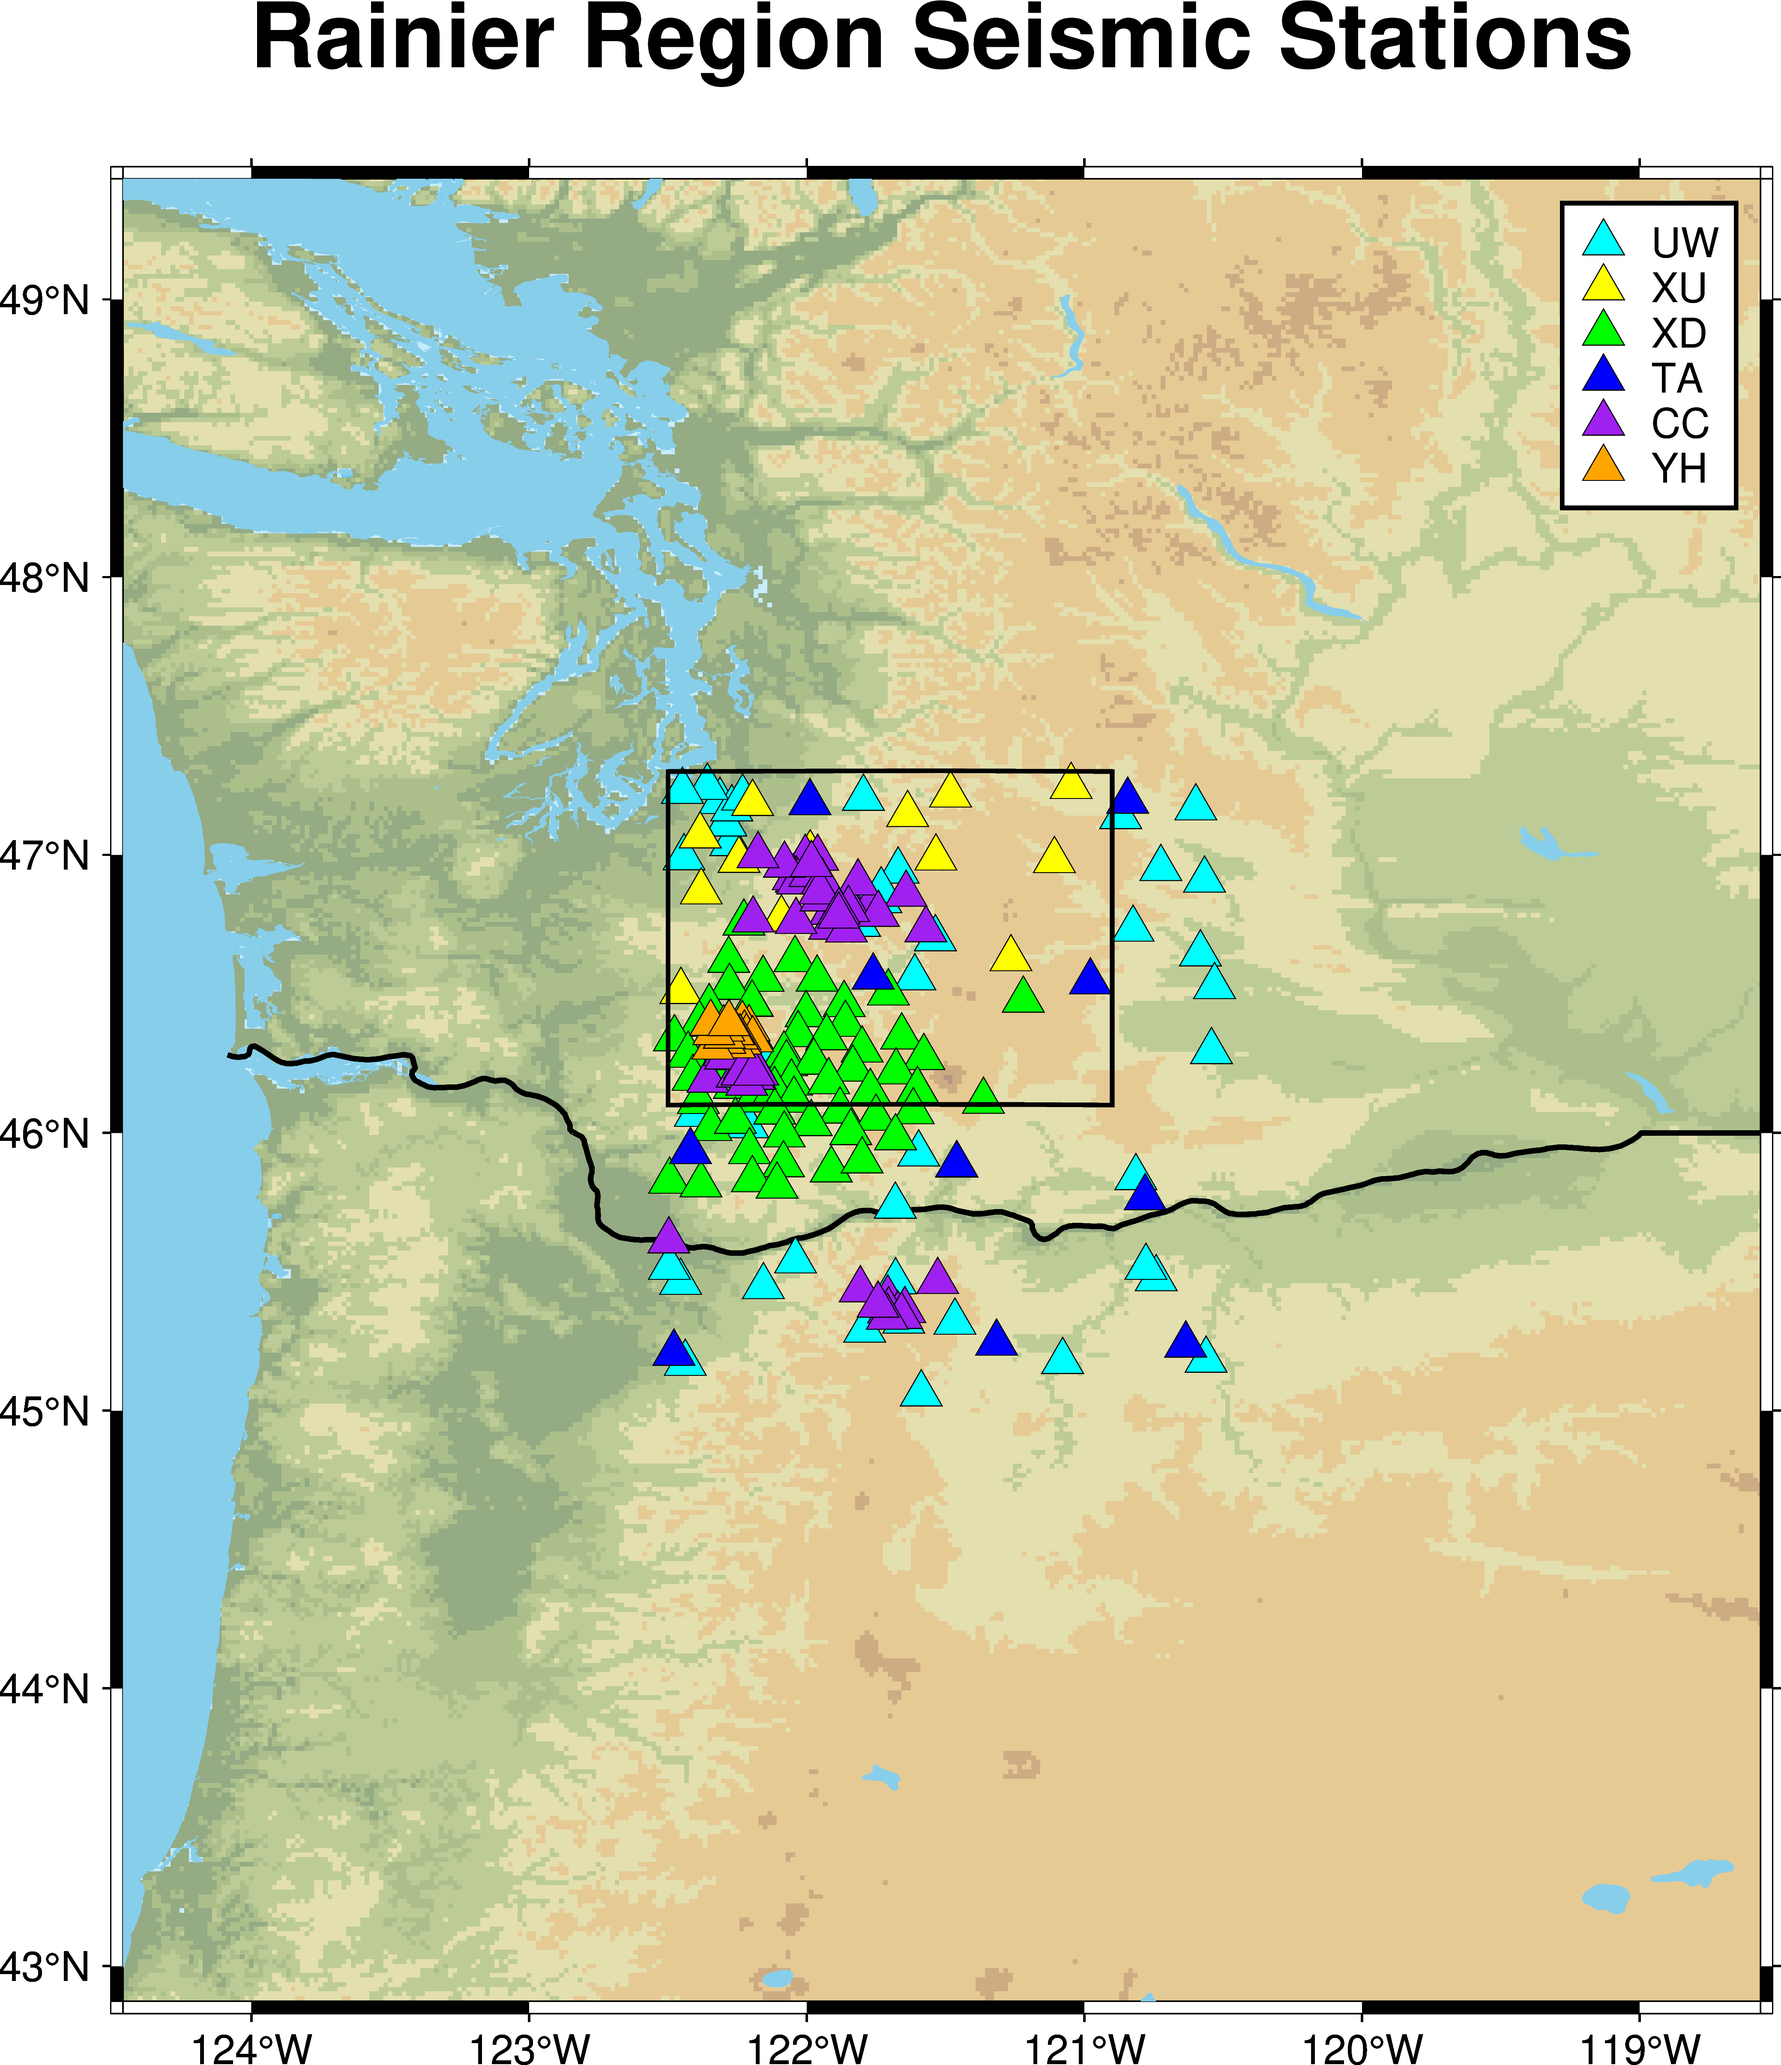
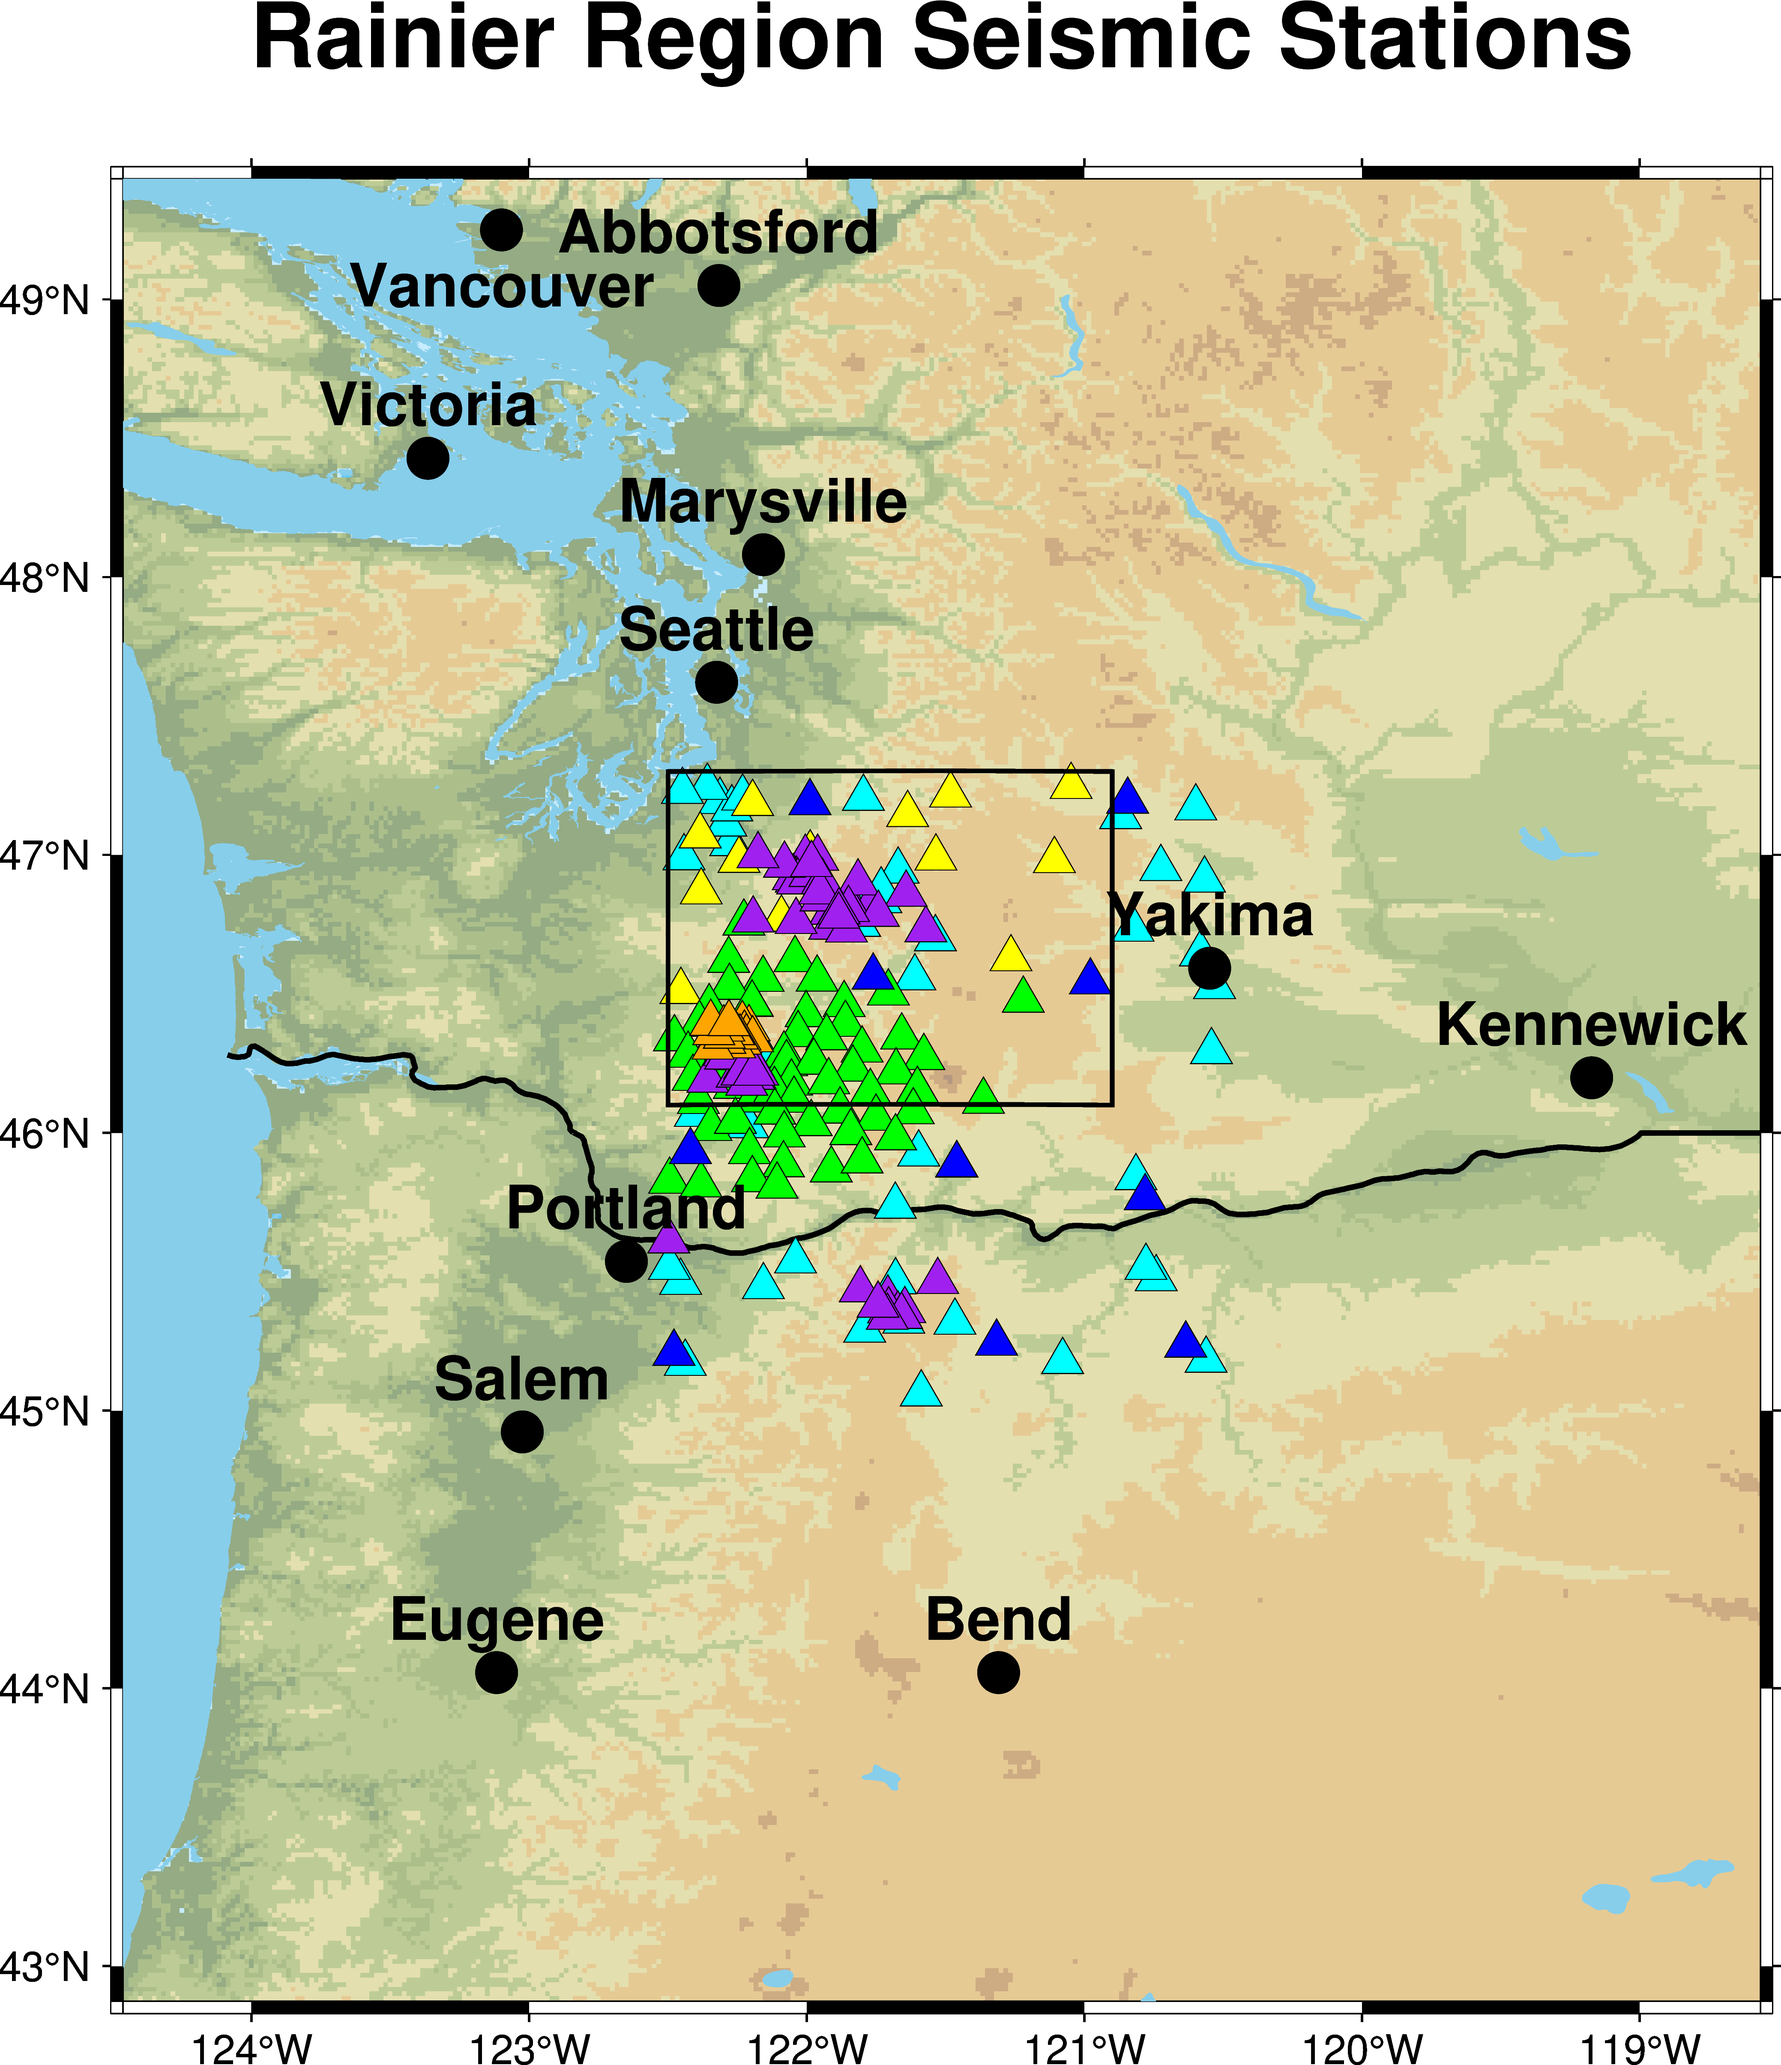
Update general_mapping
- Improved automatic labeling of cities that are very close together

diff --git a/scripts/general_mapping.py b/scripts/general_mapping.py
@@ -263,7 +263,8 @@ def get_map_dimensions(fig):
 
 def plot_major_cities(fig,bounds=None,minpopulation=100000,
                       fontsize=14,offset=0.02,
-                      dot_color='black',label_color='black'):
+                      dot_color='black',label_color='black',
+                      close_threshhold = 0.005):
     """
     Parameters
     ----------
@@ -280,8 +281,11 @@ def plot_major_cities(fig,bounds=None,minpopulation=100000,
         The default is 0.02.
     dot_color : string, optional
         Color of dots for cities. The default is 'black'.
-    label_color : TYPE, optional
+    label_color : string, optional
         Color of city labels. The default is 'black'.
+    close_threshhold: float, optional
+        Distance, as a fraction of the length of the figure diagonal, below
+        which two very close cities will only plot the larger of the two.
 
     Returns
     -------
@@ -309,14 +313,13 @@ def plot_major_cities(fig,bounds=None,minpopulation=100000,
         city = [row['lat'],row['lng'],row['city_ascii'],row['population']]
         city_list.append(city)
         
+    print(city_list)    
+        
     height,width,diag = get_map_dimensions(fig)
-    print(diag)
-    threshhold_distance = diag * 0.005 
-    
-    print(f'Threshhold distance: {threshhold_distance}')
+    threshhold_distance = diag * close_threshhold 
     
     num_cities = len(city_list)
-    last_city_index = num_cities - 1
+    last_city_index = num_cities
     problem_pair_list = []
 
     for i, city in enumerate(city_list):
@@ -328,39 +331,52 @@ def plot_major_cities(fig,bounds=None,minpopulation=100000,
             lon2 = city2[1]
             
             distance = (((lat1-lat2) **2) + (lon1-lon2) **2) **0.5
-            
             if distance < threshhold_distance:
                 problem_pair = [i, index]
                 problem_pair_list.append(problem_pair)
                 
-    print('These cities are too close:')
+    print('WARNING: These cities are too close:')
     for pair in problem_pair_list:
         
         prob1 = pair[0]
         prob2 = pair[1]
         
         print(f'{city_list[prob1][2]} and {city_list[prob2][2]}')
+    print('The larger of the two cities will be plotted. Decrease close_threshhold to change this behavior')
 
+    to_remove_list = []
     for pair in problem_pair_list:
         prob1 = pair[0]
         prob2 = pair[1]
-        
+    
+        # If you're getting an error here with index out of bound, it's because
+        # your close_threshhold is too high and too many cities are being
+        # removed, which makes this script very confused.
         if city_list[prob1][3] > city_list[prob2][3]:
-            del city_list[prob2]
+            to_remove_list.append(city_list[prob2])
         else:
-            del city_list[prob1]
+            to_remove_list.append(city_list[prob1])
+         
+    city_list = [e for e in city_list if e not in to_remove_list]
             
     standard_offset_height = height * offset
      
-    for city in city_list:          
+    for city in city_list:  
         fig.plot(x=city[1],
                  y=city[0],
                  style='c0.35',
                  fill=dot_color,
                  label=city[2])
         
+        # Fixes labels near the map edge from going off map
+        
+        if max_lat - city[0] <= standard_offset_height:
+            label_y_val = city[0] - standard_offset_height
+        else:
+            label_y_val = city[0] + standard_offset_height
+            
         fig.text(x=city[1],
-                 y=city[0] + standard_offset_height,
+                 y=label_y_val,
                  text=city[2],
                  font=f'{fontsize}p,Helvetica-Bold,{label_color}')
         

diff --git a/Mapping_Main.py b/Mapping_Main.py
@@ -17,18 +17,22 @@ box_bounds = [-122.5, -120.9, 46.1, 47.3]
 
 station_inv = ms.find_multi_network(deployment_list,region_bounds)
 
-large_region_bounds = gm.get_margin_from_bounds(region_bounds,1.5)
+large_region_bounds = gm.get_margin_from_bounds(region_bounds,3)
 
 # Plotting a regional overview
+regional_fig = gm.plot_base_map(large_region_bounds)
 regional_fig = ms.plot_stations(station_inv,
+                                fig = regional_fig,
                                 figure_name="Rainier Region Seismic Stations",
                                 box_bounds=box_bounds,
-                                resolution="01m",
+                                resolution="05m",
                                 margin=1)
-regional_fig = gm.plot_major_cities(regional_fig,minpopulation=300000)
+regional_fig = gm.plot_major_cities(regional_fig,minpopulation=100000,
+                                    close_threshhold=0.01,offset=0.03)
 regional_fig.show()
 gm.save_fig(regional_fig,"PNW Regional Overview")
-     
+
+"""
 # Plotting a narrower regional interview        
 rainier_region_fig = ms.plot_stations(station_inv,
                                       figure_name="Rainier Region Seismic Stations",
@@ -36,7 +40,6 @@ rainier_region_fig = ms.plot_stations(station_inv,
                        
 rainier_region_fig.show()
 gm.save_fig(rainier_region_fig,"Regional_Stations")
-
 # Plotting the bounding box
 local_fig = ms.plot_stations(station_inv,region=box_bounds,
                              figure_name="Stations within Bounding Box",
@@ -44,3 +47,4 @@ local_fig = ms.plot_stations(station_inv,region=box_bounds,
                         
 local_fig.show()
 gm.save_fig(local_fig,"Local_View_Stations")
+"""
